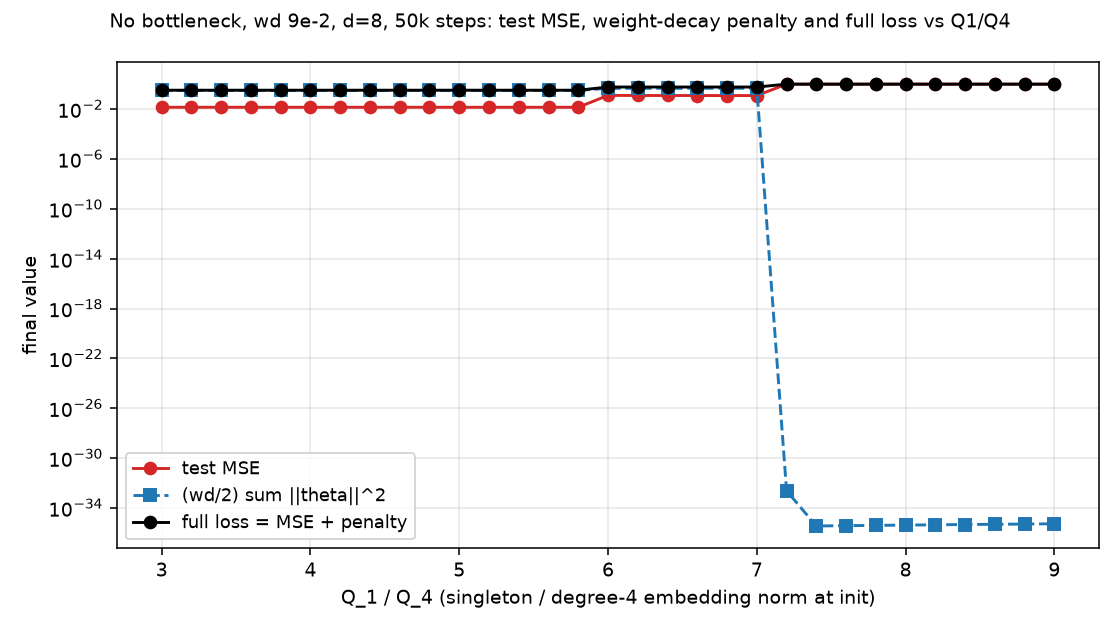
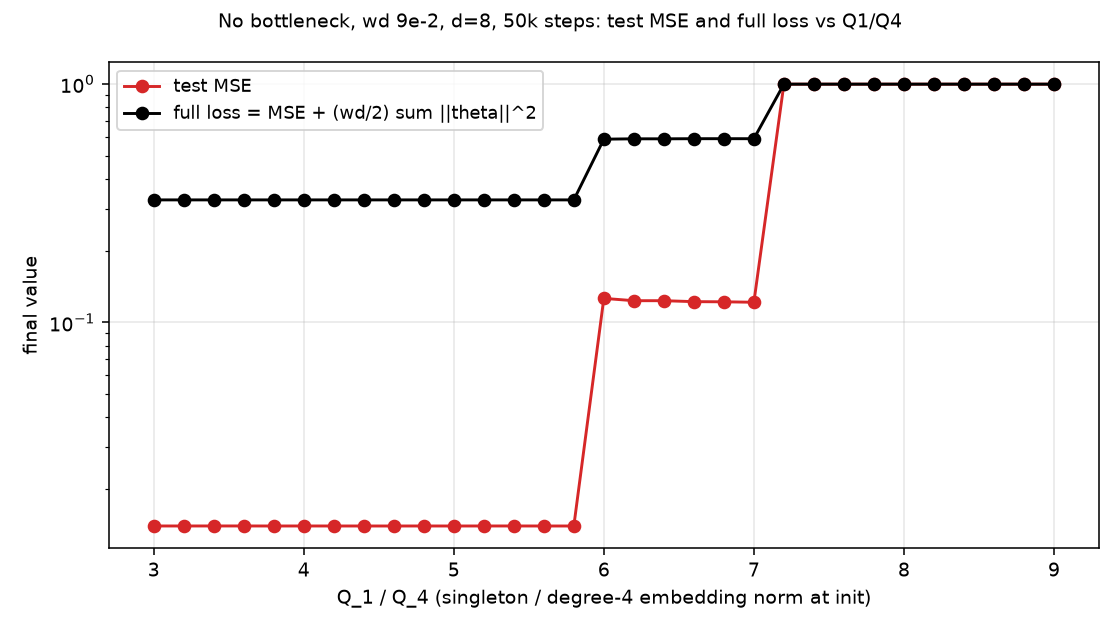
full_loss figure: show test MSE and full loss only

diff --git a/experiments/rank1_bottleneck/full_loss.py b/experiments/rank1_bottleneck/full_loss.py
@@ -58,8 +58,7 @@ def main() -> None:
     df.to_csv(Path(args.out).with_suffix(".csv"), index=False)
     fig, ax = plt.subplots(figsize=(8, 4.5))
     ax.semilogy(df.Q, df.test_mse, "o-", color="C3", label="test MSE")
-    ax.semilogy(df.Q, df.wd_penalty, "s--", color="C0", label="(wd/2) sum ||theta||^2")
-    ax.semilogy(df.Q, df.full_loss, "o-", color="k", label="full loss = MSE + penalty")
+    ax.semilogy(df.Q, df.full_loss, "o-", color="k", label="full loss = MSE + (wd/2) sum ||theta||^2")
     ax.set_xlabel(args.xlabel); ax.set_ylabel("final value"); ax.grid(alpha=0.3); ax.legend(fontsize=9)
     fig.suptitle(args.title or f"{args.prefix}{args.suffix}: full objective at the final checkpoint", fontsize=10)
     fig.tight_layout(); fig.savefig(args.out, dpi=140); print(args.out)
